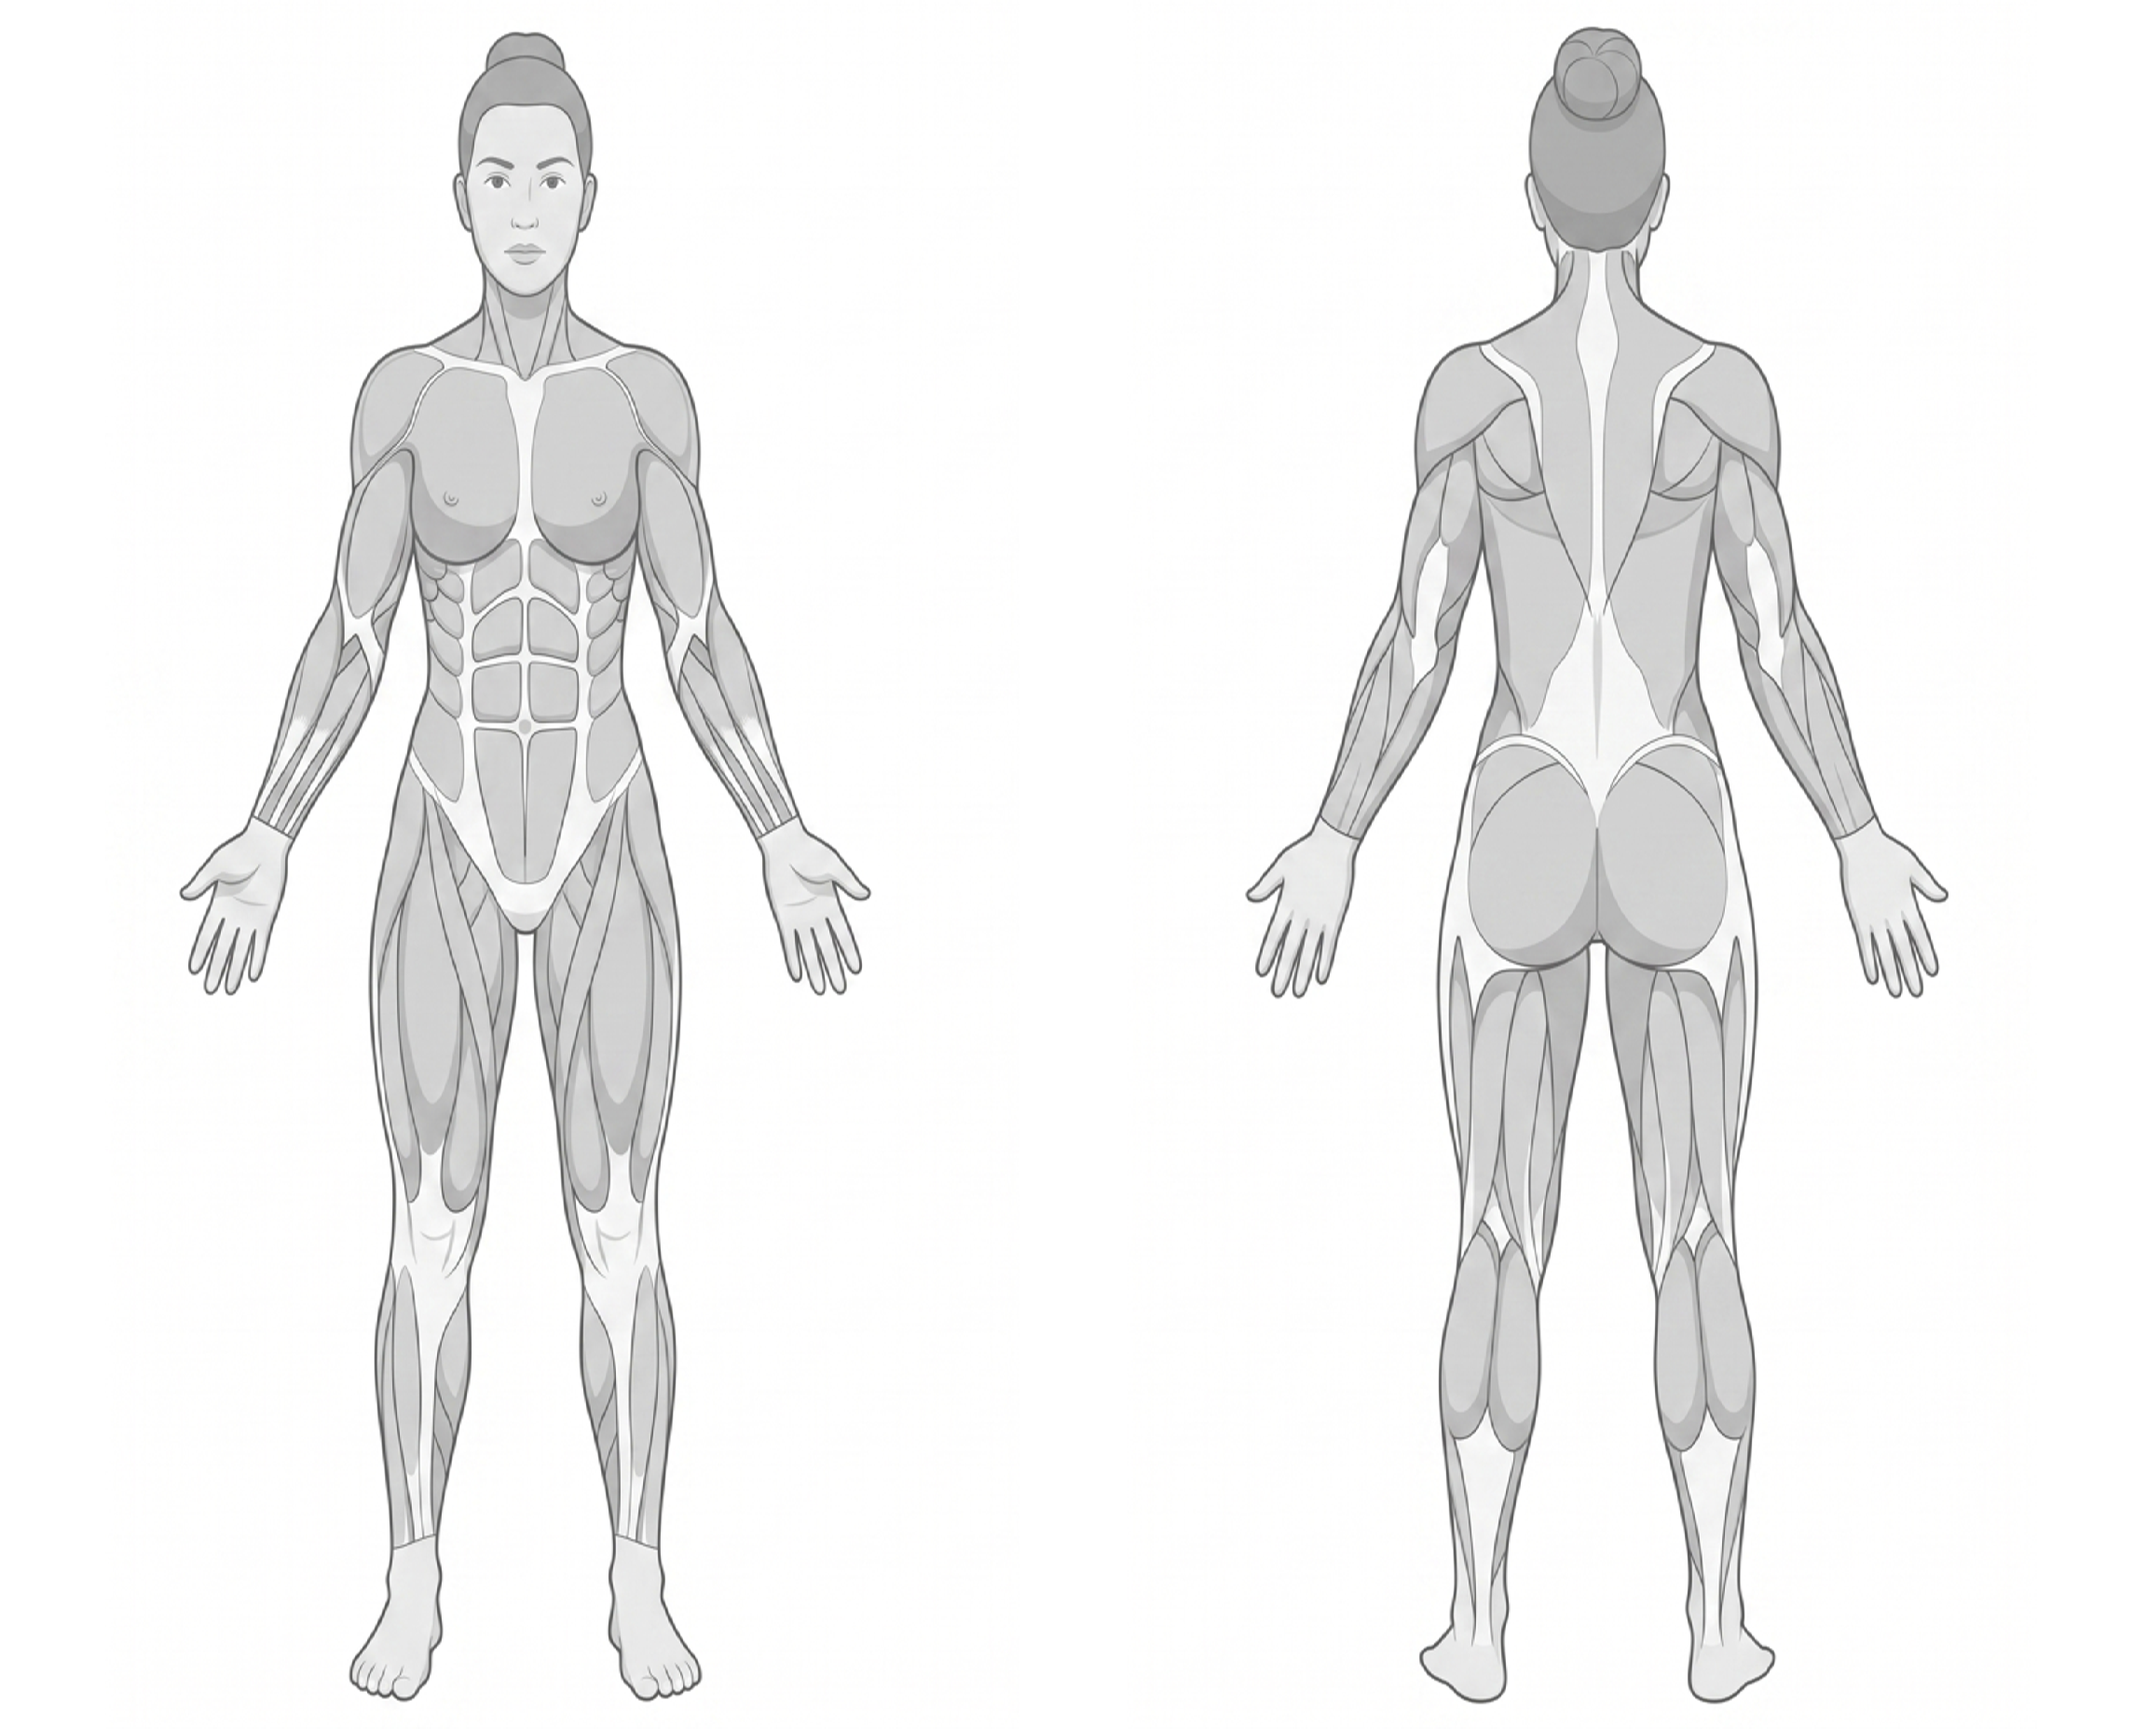
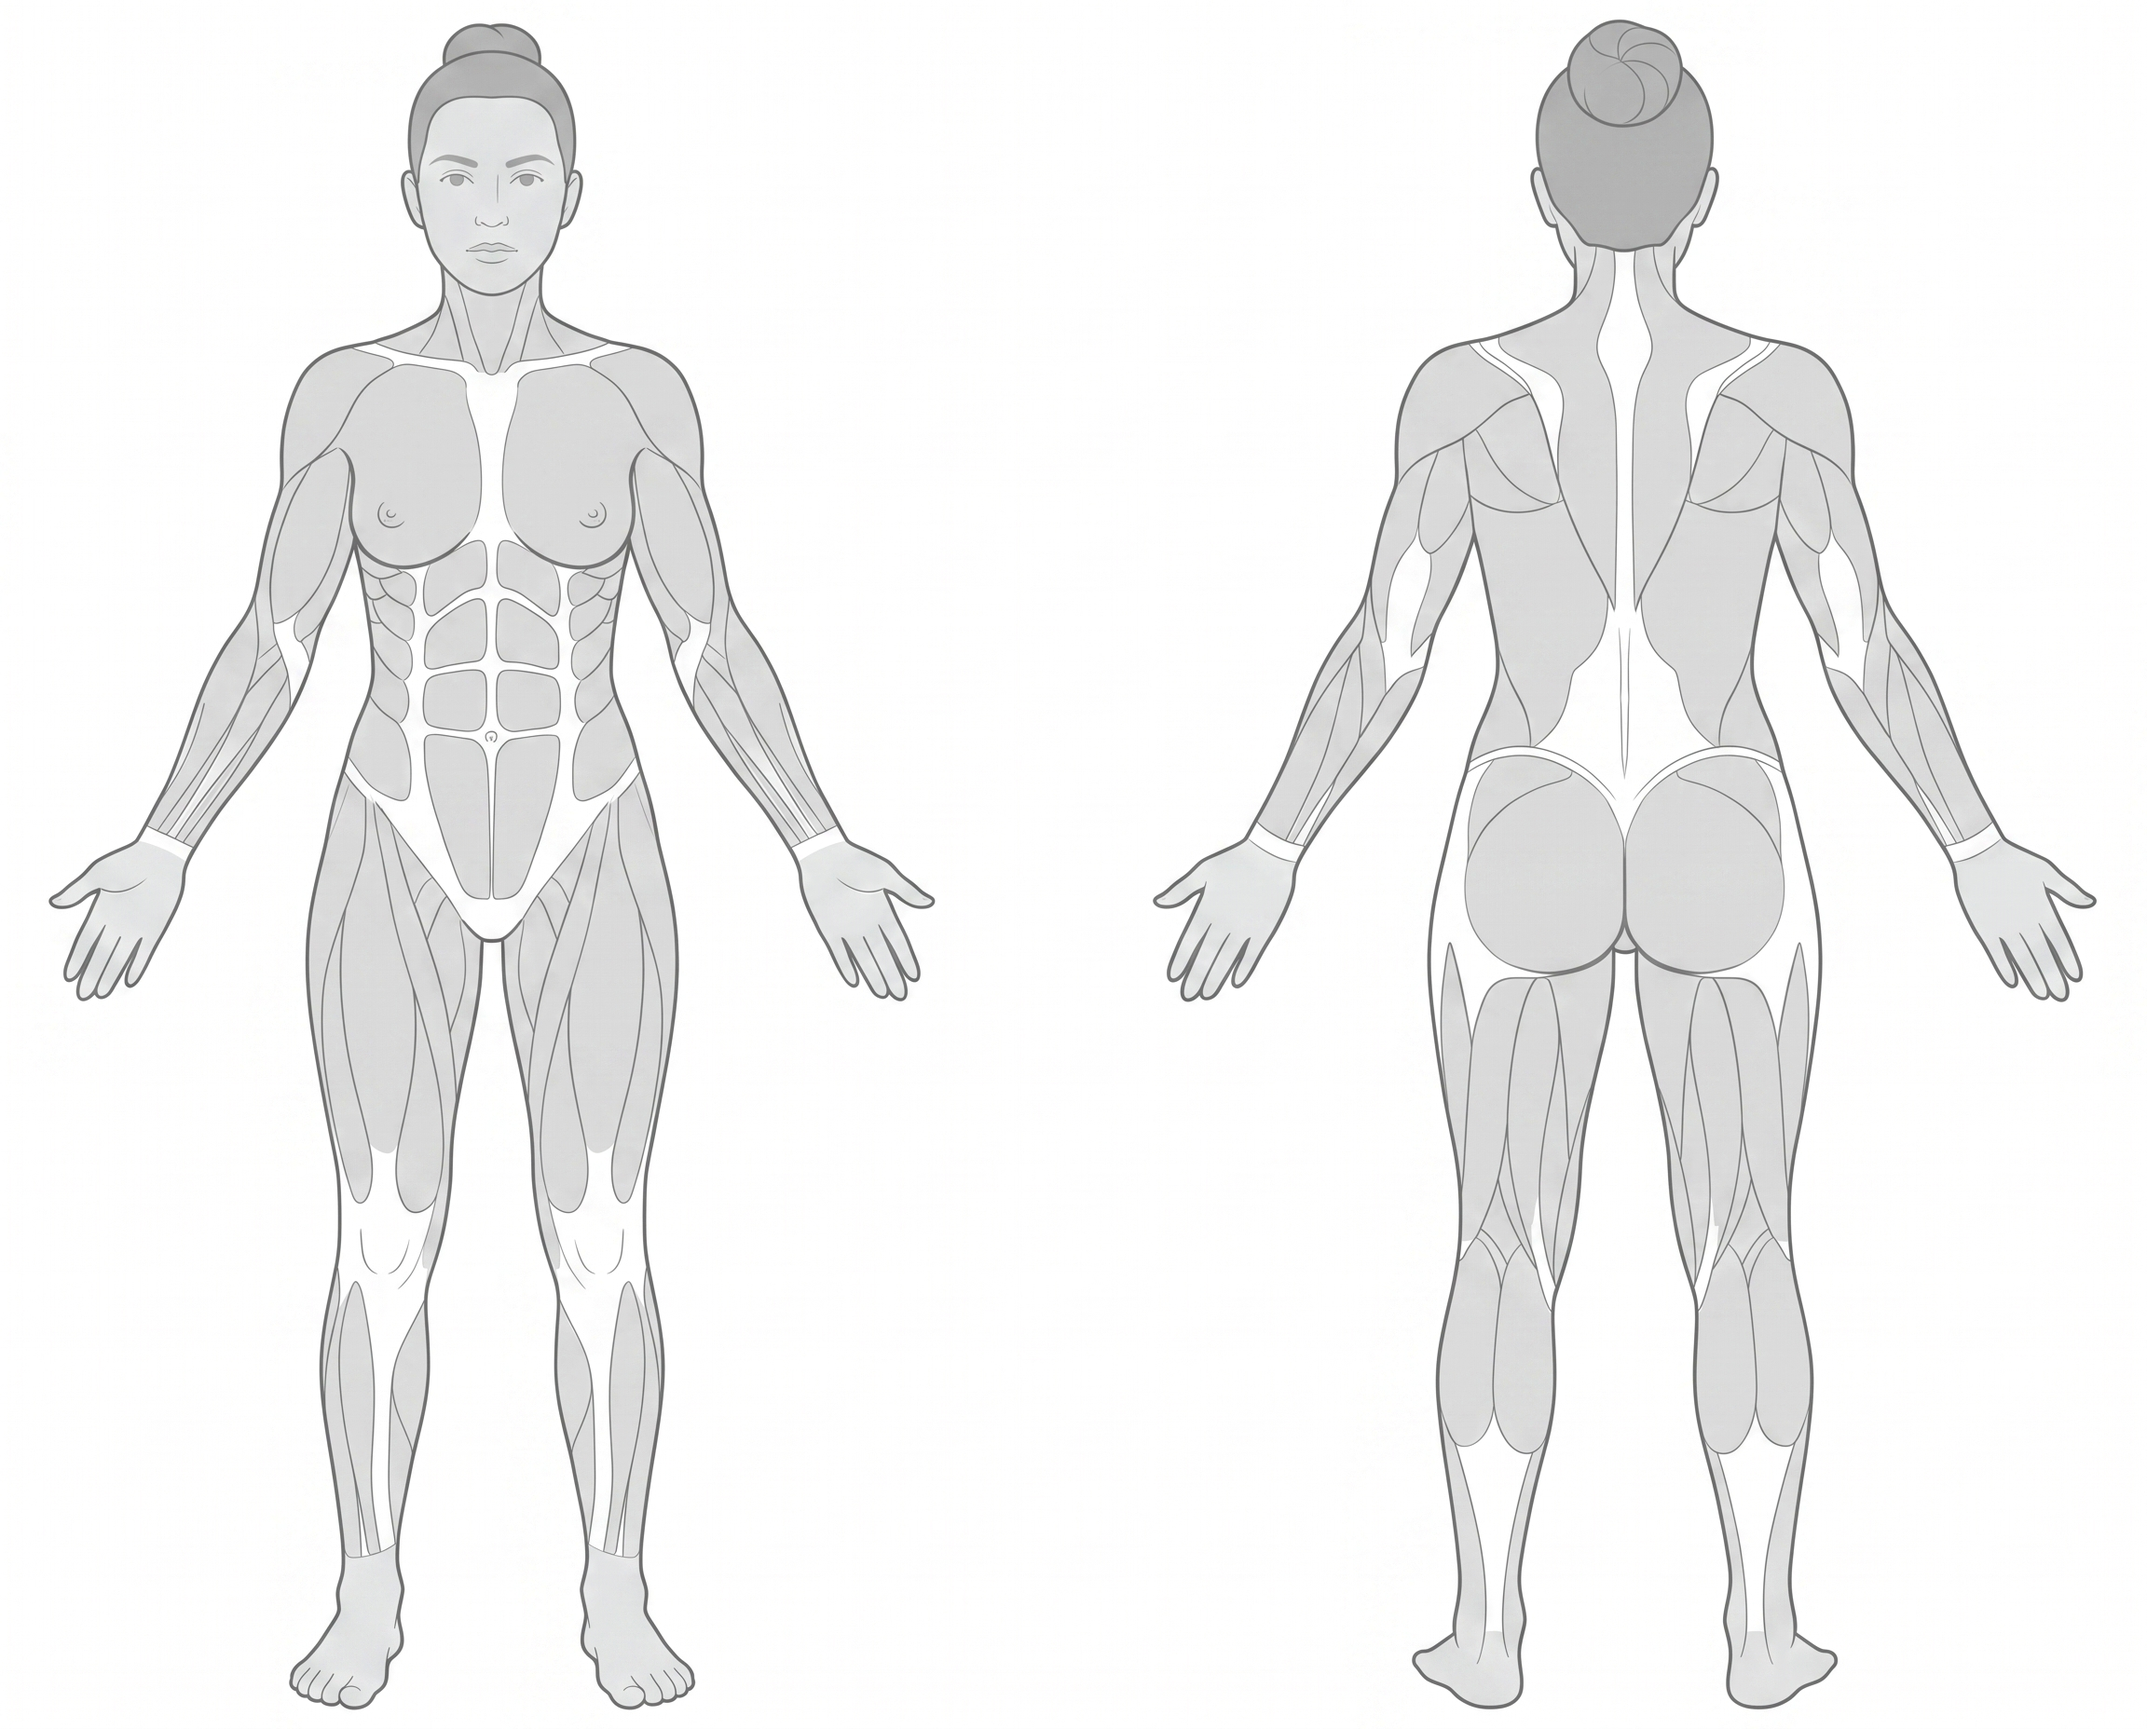
feat: lean, properly-proportioned female (regenerated) + realigned muscles
The previous female read as a muscular bodybuilder and the uniform squeeze made
it odd (shoulders overstretched). Regenerate a slender, naturally-proportioned
female (narrow shoulders, defined waist, slim limbs, soft muscles), refit the
52-id hit-map onto it (per-figure bbox->bbox), narrow the deltoids so they sit
on the caps, and re-tune the calves for the leaner legs.

Verified on a clean simulator build: lean feminine figure with chest, shoulders,
abs, biceps, quads, glutes and calves all overlaying the correct muscle.

Changed region(s): [[0.5312, 0.0, 0.9688, 1.0], [0.0312, 0.0, 0.4375, 1.0]]

diff --git a/tracing/raster/refit_to_image.py b/tracing/raster/refit_to_image.py
@@ -1,0 +1,58 @@
+import re, sys, numpy as np
+from PIL import Image
+from svgpathtools import parse_path, Path, Line, QuadraticBezier, CubicBezier, Arc
+SP="/private/tmp/claude-501/-Users-flavian-projects-personal-muscle-selector/3041e061-dbc9-4989-b31a-0d0a788ab777/scratchpad"
+REPO="/Users/flavian/projects/personal/muscle_selector"
+NEW_IMG=sys.argv[1]
+WRITE=len(sys.argv)>2 and sys.argv[2]=='write'
+W,H=2304,1856; MIDX=1152.0
+
+# target body bbox per figure from the new (lean) image
+img=np.array(Image.open(NEW_IMG).convert('L')); body=img<235
+cc=body.sum(axis=0); lo,hi=int(W*0.42),int(W*0.58); split=lo+int(np.argmin(cc[lo:hi]))
+xall=np.where(body.any(axis=0))[0]
+def ibbox(x0,x1):
+    s=body[:,x0:x1]; ys=np.where(s.any(axis=1))[0]; xs=np.where(s.any(axis=0))[0]
+    return x0+xs.min(),x0+xs.max(),ys.min(),ys.max()
+TB={'front':ibbox(xall.min(),split),'back':ibbox(split,xall.max())}
+
+# source body bbox per figure from current human_body silhouette (strip the anchor rect)
+src=open(f'{REPO}/assets/maps/human_body_female.svg').read()
+hb=re.search(r'id="human_body"[^>]*\bd="([^"]*)"',src).group(1)
+hb=re.sub(r'^M 0,0 L 2304,0 L 2304,1856 L 0,1856 Z ','',hb)
+P=parse_path(hb)
+def sbbox(front):
+    X0=1e9;X1=-1e9;Y0=1e9;Y1=-1e9
+    for seg in P:
+        zs=(seg.start,seg.control1,seg.control2,seg.end) if isinstance(seg,CubicBezier) else (seg.start,seg.end)
+        for z in zs:
+            if (z.real<MIDX)==front:
+                X0=min(X0,z.real);X1=max(X1,z.real);Y0=min(Y0,z.imag);Y1=max(Y1,z.imag)
+    return X0,X1,Y0,Y1
+SB={'front':sbbox(True),'back':sbbox(False)}
+print('SB',{k:tuple(round(v) for v in val) for k,val in SB.items()})
+print('TB',{k:tuple(int(v) for v in val) for k,val in TB.items()})
+
+def conform(z):
+    f='front' if z.real<MIDX else 'back'
+    sx0,sx1,sy0,sy1=SB[f]; ix0,ix1,iy0,iy1=TB[f]
+    return complex(ix0+(z.real-sx0)/(sx1-sx0)*(ix1-ix0), iy0+(z.imag-sy0)/(sy1-sy0)*(iy1-iy0))
+def ws(s):
+    if isinstance(s,Line): return Line(conform(s.start),conform(s.end))
+    if isinstance(s,CubicBezier): return CubicBezier(conform(s.start),conform(s.control1),conform(s.control2),conform(s.end))
+    if isinstance(s,QuadraticBezier): return QuadraticBezier(conform(s.start),conform(s.control),conform(s.end))
+    if isinstance(s,Arc): return Arc(conform(s.start),s.radius,s.rotation,s.large_arc,s.sweep,conform(s.end))
+    return s
+el=re.compile(r'(<path\b)(.*?)(\bd=")([^"]*)("\s*/?>)',re.DOTALL)
+def repl(m):
+    pid=re.search(r'id="([^"]*)"',m.group(2)).group(1)
+    if pid=='human_body': return m.group(0)
+    return m.group(1)+m.group(2)+m.group(3)+Path(*[ws(s) for s in parse_path(m.group(4))]).d()+m.group(5)
+out=el.sub(repl,src)
+if WRITE:
+    open(f'{REPO}/assets/maps/human_body_female.svg','w').write(out)
+    Image.open(NEW_IMG).convert('RGB').save(f'{REPO}/assets/maps/human_body_female.png')
+    print('WROTE refit svg + new png')
+else:
+    open(SP+'/refit_female.svg','w').write(out)
+    print('preview refit_female.svg')

diff --git a/tracing/raster/calf_shapes.py b/tracing/raster/calf_shapes.py
@@ -20,7 +20,7 @@ SVG = ('assets/maps/human_body_female.svg' if GENDER == 'female'
 
 # tuned against the 2304x1856 illustrations (Lx/Rx = each lower-leg centre)
 PARAMS = {
-    'female': dict(Lx=1562, Rx=1884, sep=22, ytop=1335, h=230, wo=42, wi=48, drop=10),
+    'female': dict(Lx=1545, Rx=1900, sep=18, ytop=1322, h=220, wo=36, wi=42, drop=8),
     'male':   dict(Lx=1500, Rx=1900, sep=24, ytop=1300, h=235, wo=46, wi=52, drop=10),
 }[GENDER]
 

diff --git a/tracing/raster/README.md b/tracing/raster/README.md
@@ -41,3 +41,11 @@ translucent tint — so small mismatches are invisible.
 
 `python tracing/validate_female_svg.py` → 52 ids · one line each · well-formed.
 The PNG must stay 1:1 with the SVG `viewBox` (`align_hitmap.py` guarantees this).
+
+## Lean female re-do
+
+The first illustration came out too muscular. A leaner, properly-proportioned
+female was regenerated (silhouette-conditioned, 'slender / low muscle' prompt) and
+the existing hit-map was **refit** onto it with `refit_to_image.py` (per-figure
+bbox->bbox of the body), then the shoulders were narrowed and the calves re-tuned
+(`calf_shapes.py`). The PNG is that lean illustration.
